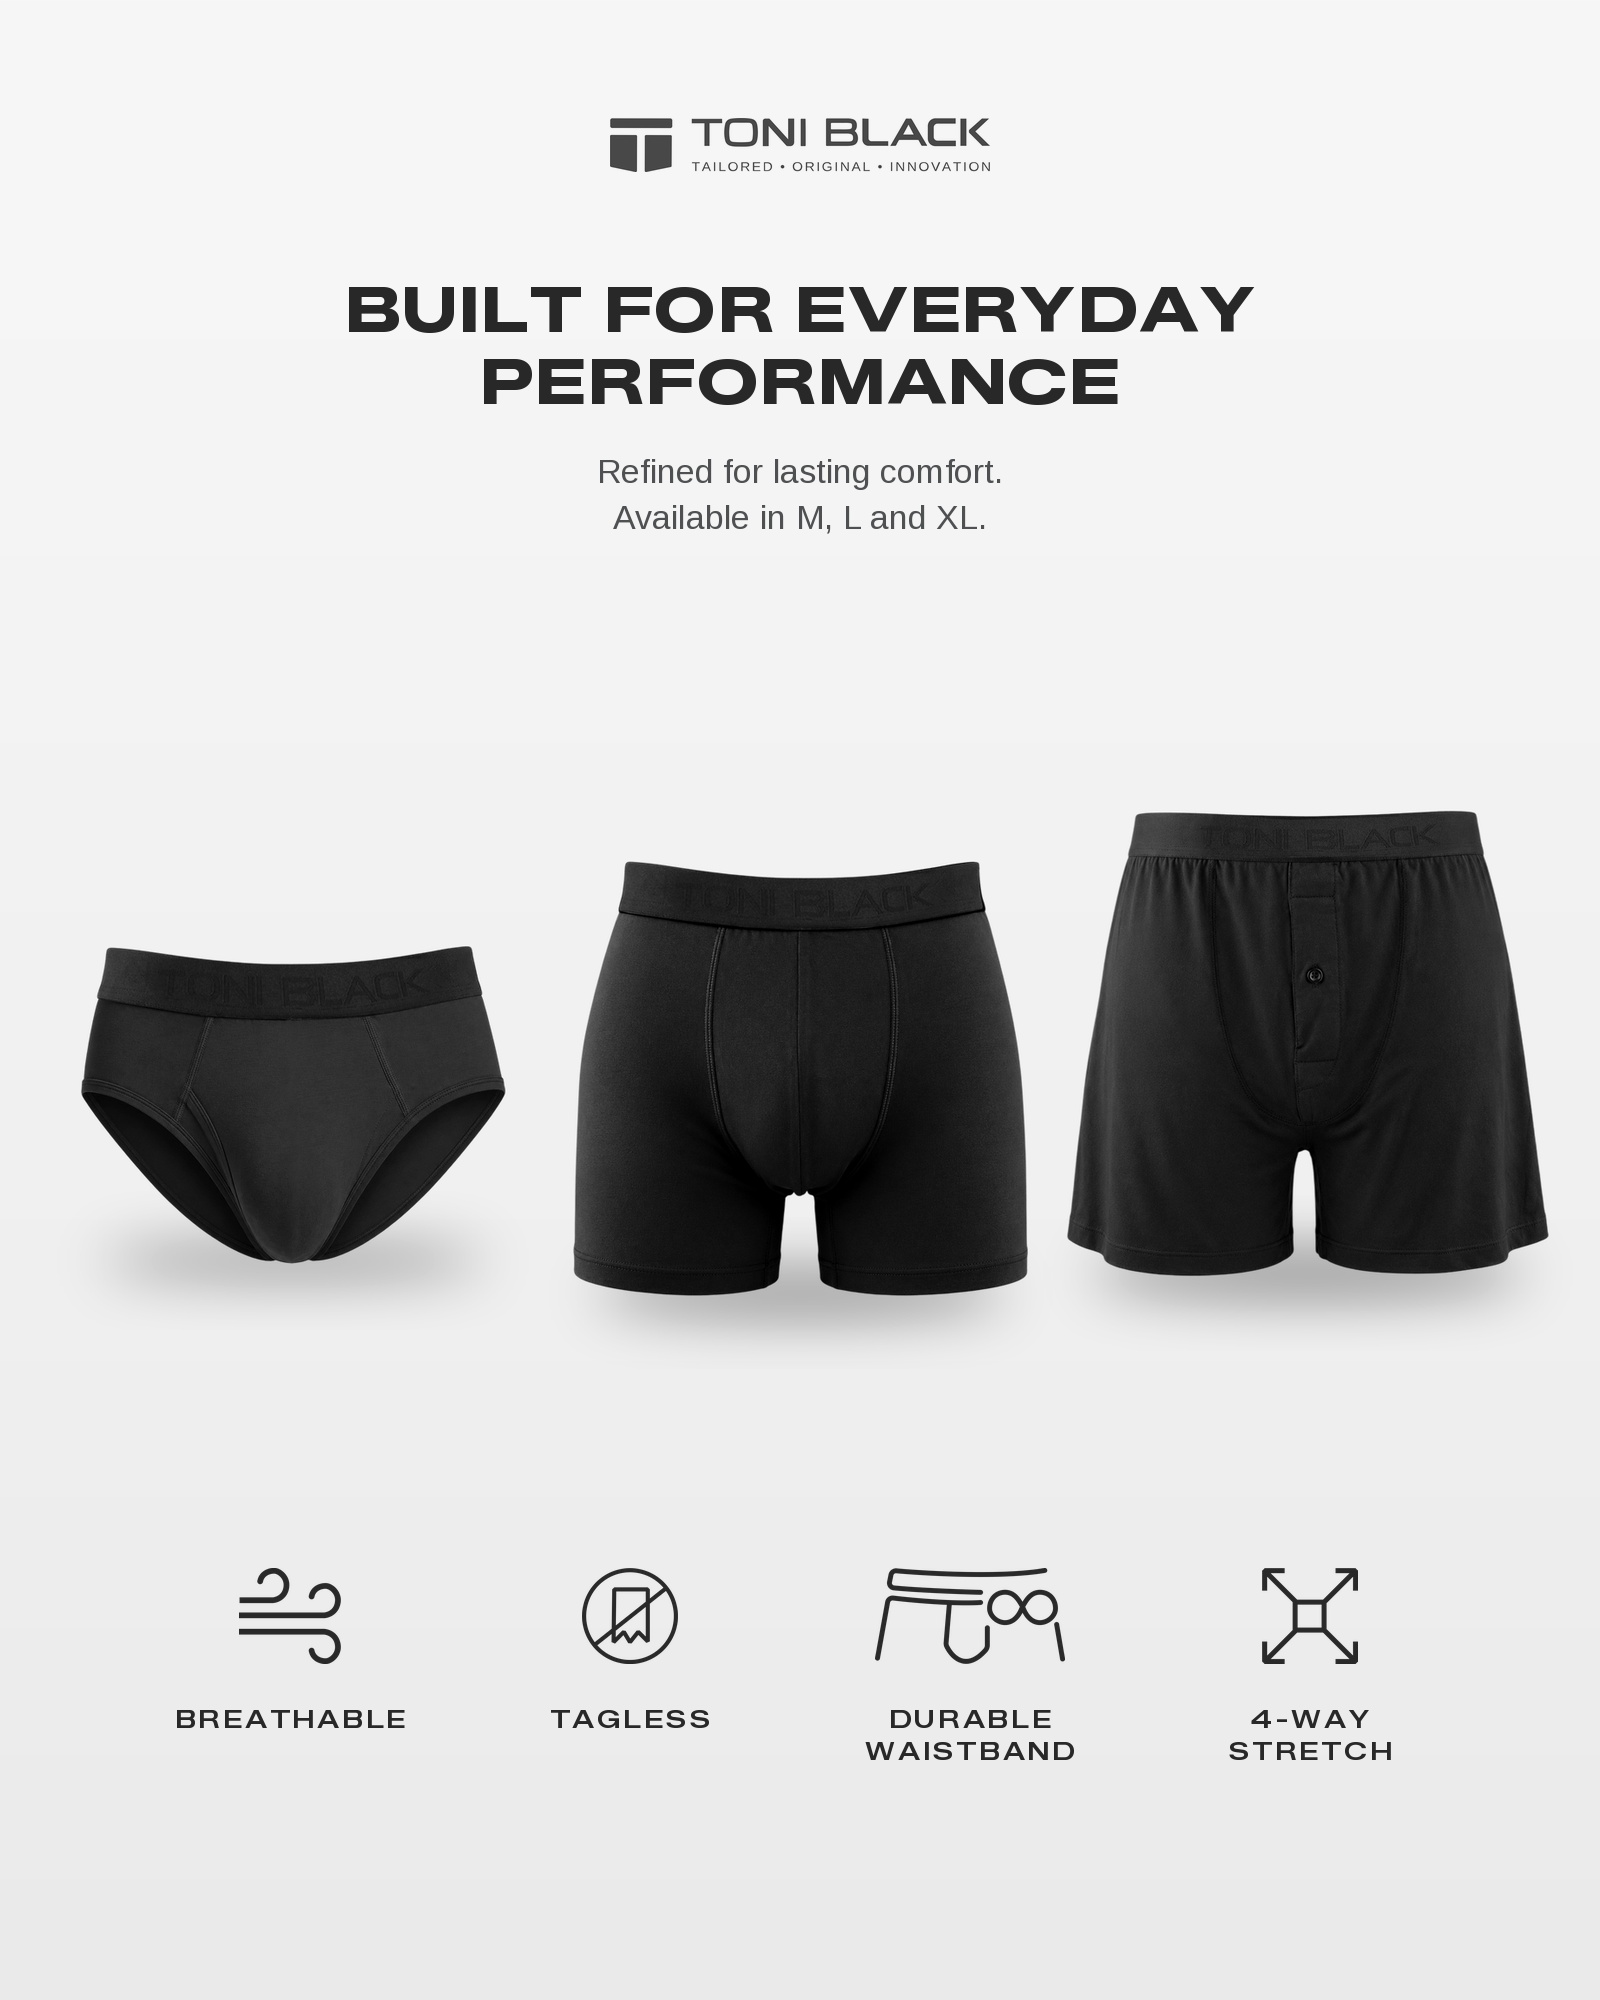
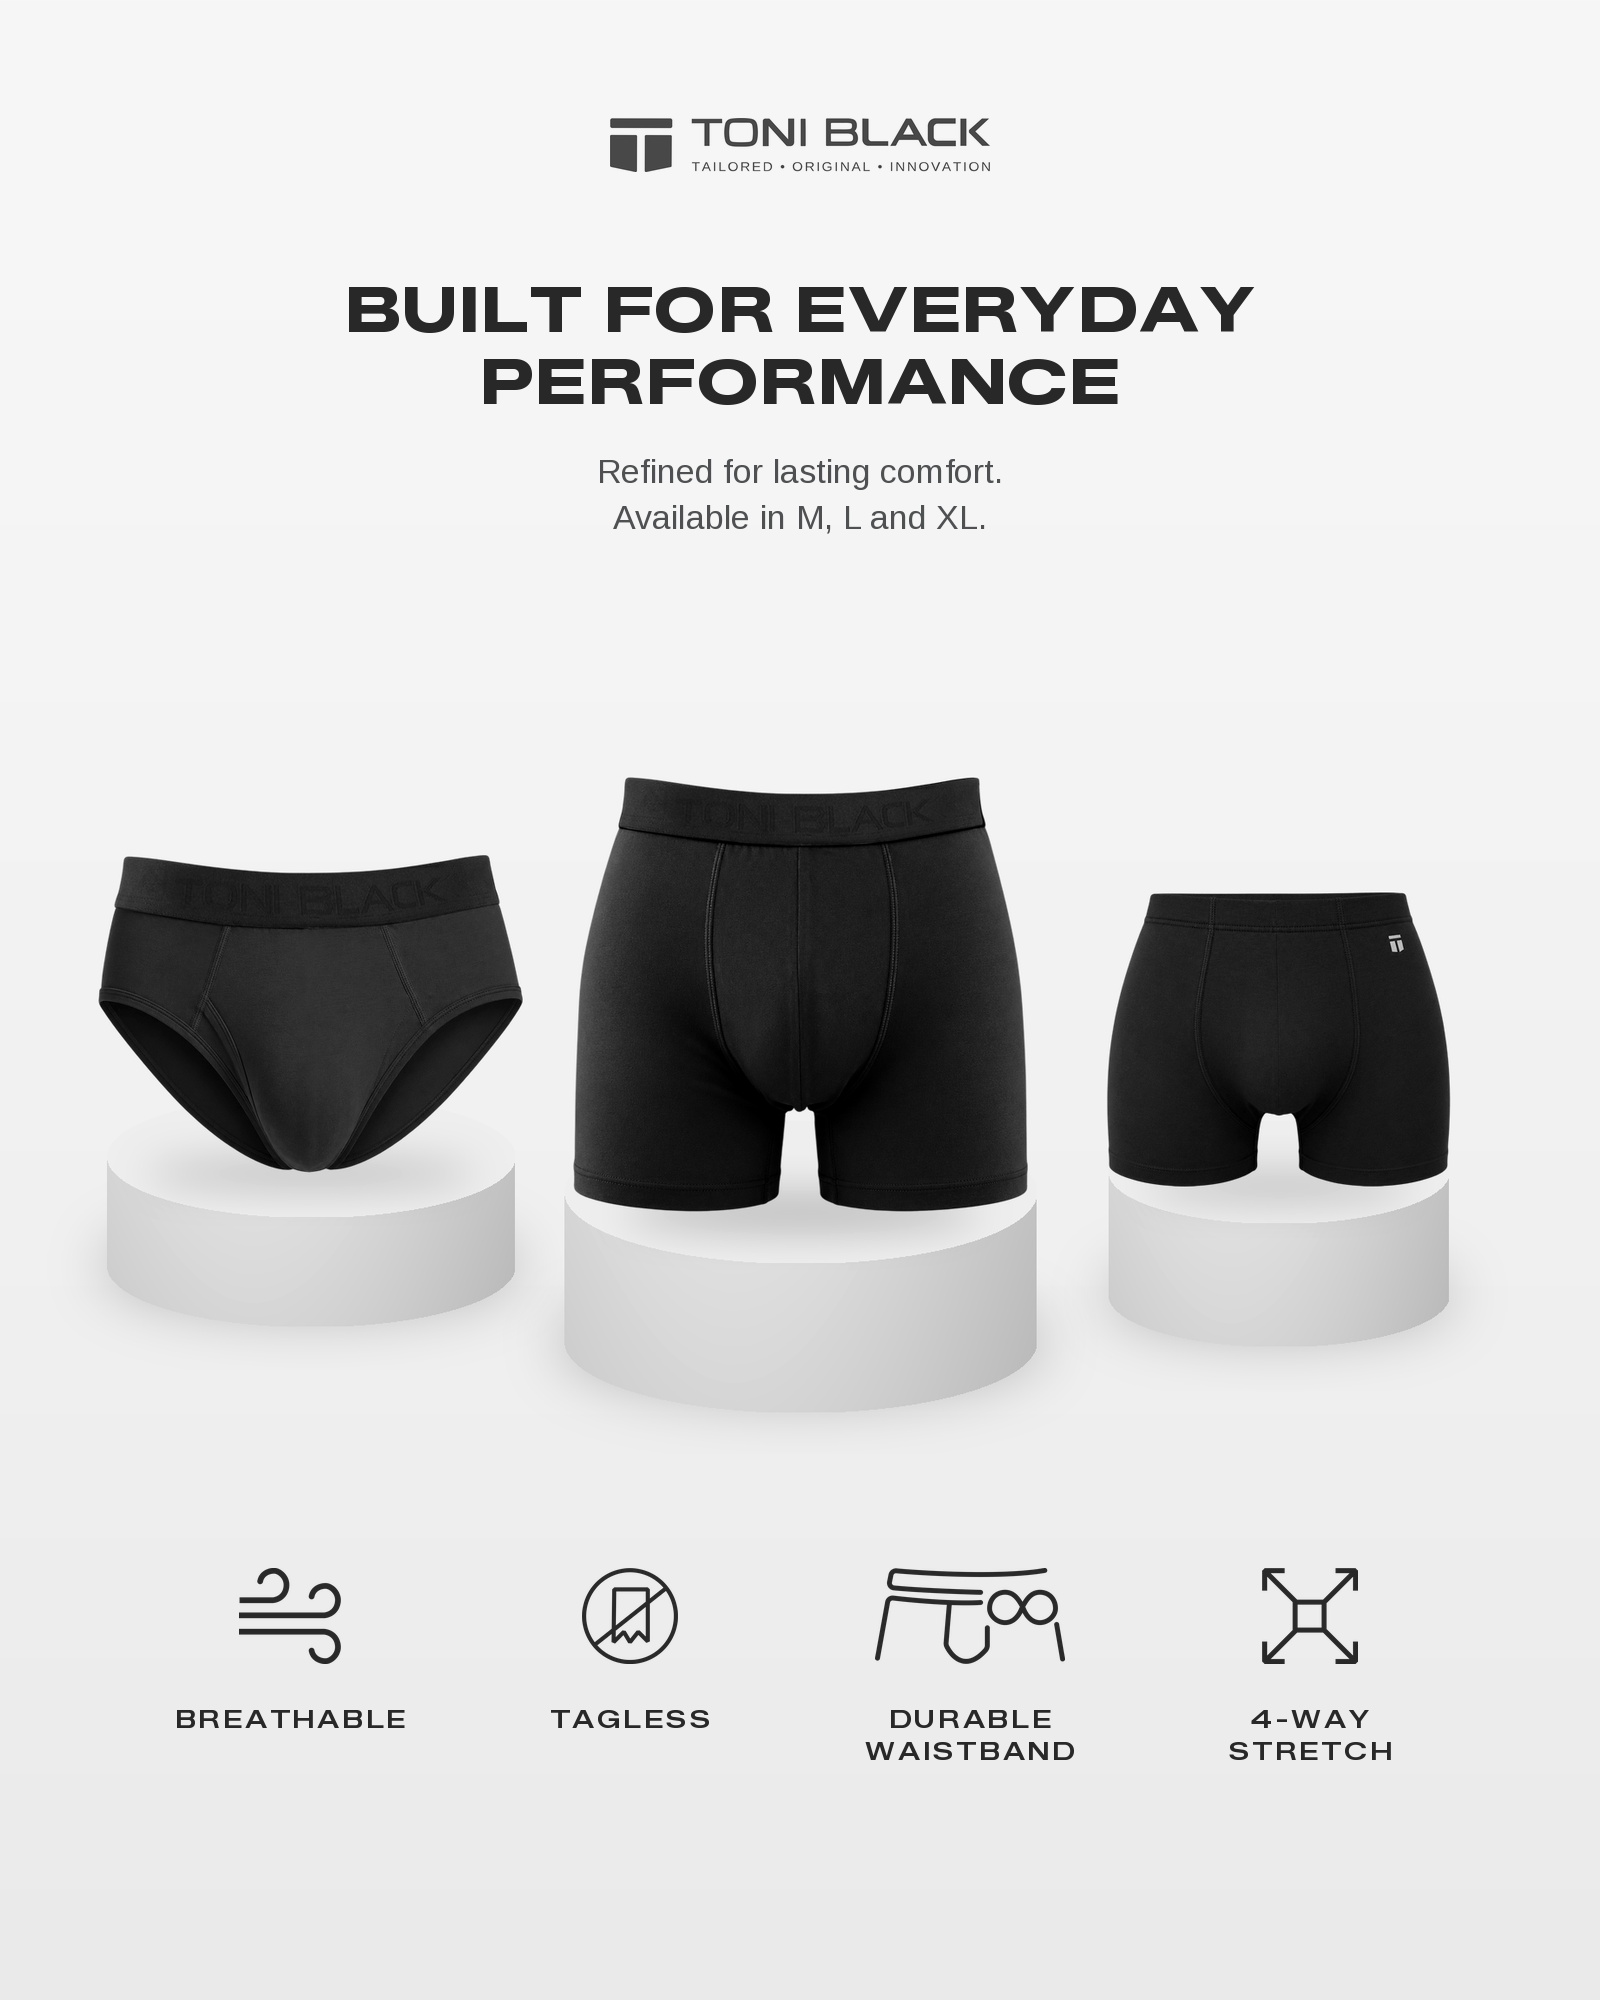
Restore the plinths on slide 2 and swap the right piece for the kids boxer
Switching to the real cutouts had dropped the plinths along with the generated
set, leaving the garments floating on soft shadows alone. They are drawn back in
as pale cylinders — top face, shaded body lit from the upper left, and the front
arc of the base — at three different heights with the hero centred and tallest.

Each garment is seated a little past the centre line of its ellipse. Resting it
exactly on the centre reads as hovering over the back of the plinth rather than
standing on it.

The loose button-fly boxer on the right is replaced by the kids boxer, so the
group now covers Men and Kids together, matching the two categories on the shop
banner. It is left visibly smaller because it is a child's size; the scale is
not normalised against the adult pieces.

Claude-Session: https://claude.ai/code/session_01BFDP3Ndj2eT8f8PUhw5miP

Changed region(s): [[0.0312, 0.372, 0.9688, 0.713], [0.2188, 0.651, 0.2812, 0.682]]

diff --git a/tools/compose_stilllife.py b/tools/compose_stilllife.py
@@ -1,10 +1,9 @@
 #!/usr/bin/env python3
 """Stage the product still-life from the client's own ghost-mannequin cutouts.
 
-Nothing here is generated. The three garments are the real transparent PNGs from
-Drive, so the silhouettes are exactly the products that exist — an earlier
-generated version invented a trunk and gave the boxer a long leg, neither of
-which Toni Black sells.
+No product photography is generated here. The three garments are the real
+transparent PNGs from Drive, so the silhouettes are exactly the products that
+exist. Only the set — plinths, shading, shadows — is drawn.
 """
 from PIL import Image, ImageDraw, ImageFilter, ImageEnhance
 import numpy as np
@@ -12,62 +11,93 @@ import os
 
 SCR = "/tmp/claude-0/-home-user-Dom-Manipulation/9660e19d-0a17-5887-b846-45e4bff6dd11/scratchpad"
 GM, OUT = f"{SCR}/gm", f"{SCR}/gen/still-life.png"
-W, H = 1856, 2304                      # same frame the banner already crops from
+W, H = 1856, 2304                      # the frame the banner crops from
 
-# left to right; y_base is where the garment's lowest point sits
+# file, centre x, baseline y (both as a fraction of the frame), garment scale,
+# plinth radius, plinth height. The hero sits centre, lowest and furthest forward.
 PIECES = [
-    ("brief-a.png",  0.185, 0.632, 0.94),   # classic brief
-    ("boxer.png",    0.500, 0.648, 1.00),   # fitted boxer, hero, front and lowest
-    ("brief-b.png",  0.815, 0.638, 1.02),   # loose boxer
+    ("brief-a.png",    0.196, 0.578, 0.94, 235, 126),   # adult classic brief
+    ("boxer.png",      0.500, 0.596, 1.00, 272, 172),   # adult boxer, short leg
+    ("kids-boxer.png", 0.797, 0.586, 0.76, 196, 142),   # kids boxer
 ]
 
 
-def trimmed(path):
-    im = Image.open(f"{GM}/{path}").convert("RGBA")
+def trimmed(name):
+    im = Image.open(f"{GM}/{name}").convert("RGBA")
     return im.crop(im.getchannel("A").getbbox())
 
 
 def hip_width(im):
-    """Widest point of the garment. The waistband would be the truer datum since
-    all three are one waist size, but the brief is photographed at an angle and
-    its band foreshortens, which scaled it far too small."""
+    """Widest point of the garment. The waistband would be the truer datum, since
+    the adult pieces share one waist size, but the brief is photographed at an
+    angle and its band foreshortens, which scaled it far too small."""
     a = np.asarray(im.getchannel("A"))
     rows = (a > 40).sum(axis=1)
     return int(rows.max()) if rows.size else im.width
 
 
-def soft_shadow(size, blur):
+def soft_shadow(size, blur, strength=225):
     s = Image.new("L", (size[0] + blur * 4, size[1] + blur * 4), 0)
     ImageDraw.Draw(s).ellipse([blur * 2, blur * 2, blur * 2 + size[0], blur * 2 + size[1]],
-                              fill=225)
+                              fill=strength)
     return s.filter(ImageFilter.GaussianBlur(blur))
 
 
+def plinth(canvas, cx, top_y, rw, h):
+    """A pale cylinder seen slightly from above: top face, curved body, and the
+    front arc of the base."""
+    rh = round(rw * 0.30)
+    lw, lh = rw * 2, h + rh * 2
+    body = Image.new("L", (lw, lh), 0)
+    bd = ImageDraw.Draw(body)
+    bd.rectangle([0, rh, lw, rh + h], fill=255)
+    bd.ellipse([0, h, lw, h + rh * 2], fill=255)          # base, front half shows
+
+    xs = np.linspace(-1, 1, lw, dtype=np.float32)
+    curve = 0.90 + 0.12 * np.cos((xs + 0.28) * 1.35)      # light from the upper left
+    ys = np.linspace(0, 1, lh, dtype=np.float32)[:, None]
+    shade = (226 * curve[None, :]) * (1 - 0.07 * ys)
+    fill = Image.fromarray(np.repeat(shade[..., None], 3, 2).clip(0, 255).astype(np.uint8))
+
+    ground = soft_shadow((round(rw * 2.05), round(rh * 1.6)), 32, 210)
+    canvas.paste(Image.new("RGB", ground.size, (168, 168, 168)),
+                 (round(cx - ground.width / 2), round(top_y + h - ground.height / 2)), ground)
+    canvas.paste(fill, (round(cx - rw), round(top_y - rh)), body)
+
+    top = Image.new("L", (lw, rh * 2), 0)
+    ImageDraw.Draw(top).ellipse([0, 0, lw, rh * 2], fill=255)
+    canvas.paste(Image.new("RGB", (lw, rh * 2), (238, 238, 238)),
+                 (round(cx - rw), round(top_y - rh)), top)
+
+
 def main():
-    # background: barely-there vertical gradient, so the frame has depth without
-    # ever getting dark enough to threaten the black type sitting on it
+    # barely-there vertical gradient, so the frame has depth without ever getting
+    # dark enough to threaten the black type sitting on it
     yy = np.linspace(0, 1, H, dtype=np.float32)[:, None]
-    base = (246 - 12 * yy ** 1.4) * np.ones((1, W), np.float32)
+    base = (247 - 13 * yy ** 1.4) * np.ones((1, W), np.float32)
     canvas = Image.fromarray(np.repeat(base[..., None], 3, 2).astype(np.uint8), "RGB")
 
-    pieces = [(trimmed(f), cx, cy, s) for f, cx, cy, s in PIECES]
-
-    for im, cx, cy, rel in pieces:
-        # equal hip width across the three, then a small depth difference between
-        # the front piece and the two set back beside it
+    staged = []
+    for name, cx, cy, rel, prw, ph in PIECES:
+        im = trimmed(name)
         k = (520 * rel) / hip_width(im)
         im = im.resize((round(im.width * k), round(im.height * k)), Image.LANCZOS)
-        x = round(cx * W - im.width / 2)
-        y = round(cy * H - im.height)
+        staged.append((im, cx * W, cy * H, prw, ph))
 
-        sw, sh = round(im.width * 0.90), round(im.height * 0.11)
-        sh_img = soft_shadow((sw, sh), 30)
-        canvas.paste(Image.new("RGB", sh_img.size, (138, 138, 138)),
-                     (x + (im.width - sh_img.width) // 2,
-                      y + im.height - sh_img.height // 2 - 4), sh_img)
+    for im, cx, base_y, prw, ph in staged:          # plinths first, garments on top
+        plinth(canvas, cx, base_y, prw, ph)
+
+    for im, cx, base_y, prw, ph in staged:
+        # drop the garment past the ellipse centre line, otherwise it reads as
+        # hovering over the back of the plinth rather than resting on it
+        seat = base_y + prw * 0.30 * 0.28
+        x, y = round(cx - im.width / 2), round(seat - im.height)
+        sh = soft_shadow((round(im.width * 0.78), round(im.height * 0.09)), 22, 190)
+        canvas.paste(Image.new("RGB", sh.size, (172, 172, 172)),
+                     (round(cx - sh.width / 2), round(seat - sh.height / 2)), sh)
         canvas.paste(im, (x, y), im)
 
-    canvas = ImageEnhance.Color(canvas).enhance(0.0)     # brand shoots black and white
+    canvas = ImageEnhance.Color(canvas).enhance(0.0)     # the brand shoots black and white
     os.makedirs(os.path.dirname(OUT), exist_ok=True)
     canvas.save(OUT)
     print("still-life composed from real cutouts:", canvas.size)

diff --git a/banners/shopee/COPY_AND_LAYOUT.md b/banners/shopee/COPY_AND_LAYOUT.md
@@ -93,11 +93,15 @@ Sekarang **tidak ada foto produk yang digenerate sama sekali**. Ketiganya adalah
 
 | Posisi | File asli | Bentuk |
 |---|---|---|
-| Kiri | `Brief dewasa/6.png` | brief klasik |
-| Tengah (hero) | `Boxer dewasa/6a.png` | boxer ketat, **kaki pendek** |
-| Kanan | `Brief dewasa B/1.png` | boxer longgar berkancing |
+| Kiri | `Brief dewasa/6.png` | brief dewasa |
+| Tengah (hero) | `Boxer dewasa/6a.png` | boxer dewasa, **kaki pendek** |
+| Kanan | `Boxer anak/6.png` | boxer anak |
 
-Tersimpan di `brand/assets/products/`. Latar, bayangan, dan penataannya dibuat oleh `tools/compose_stilllife.py` — gradasi off-white yang sangat halus, bayangan elips lembut di bawah tiap produk, disusun dalam busur dengan hero di tengah dan paling depan.
+Tersimpan di `brand/assets/products/`. Ketiganya menampilkan lini Men dan Kids sekaligus, sejalan dengan dua kategori di banner toko.
+
+Panggungnya digambar oleh `tools/compose_stilllife.py`: silinder pucat dengan permukaan atas, badan berbayang (cahaya dari kiri atas), dan lengkung depan alasnya. Tinggi panggung berbeda-beda, hero di tengah paling tinggi dan paling depan. Garmen didudukkan sedikit melewati garis tengah elips — kalau tepat di garis tengah, ia terbaca melayang di atas bagian belakang panggung, bukan bertumpu di atasnya.
+
+Boxer anak sengaja jauh lebih kecil karena memang ukurannya begitu; skalanya bukan disamakan.
 
 Skalanya disamakan berdasarkan **lebar terlebar (pinggul)**. Waistband sebenarnya datum yang lebih tepat karena ketiganya satu ukuran pinggang, tapi brief-nya difoto menyudut sehingga waistband-nya memendek secara perspektif dan brief jadi terlalu kecil.
 
